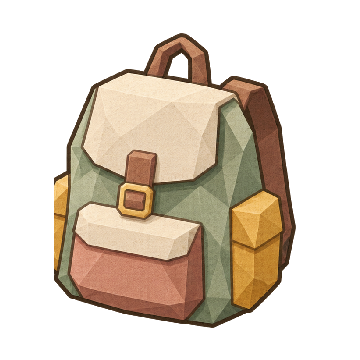
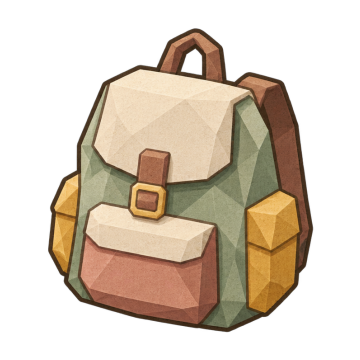
Refactor code structure for improved readability and maintainability

Changed region(s): [[0.1222, 0.0611, 0.8861, 0.9472]]

diff --git a/src/features/diary/domain/Sticker.ts b/src/features/diary/domain/Sticker.ts
@@ -56,6 +56,9 @@ export const STICKER_PACKS: StickerCategory[] = [
       { id: 'cat_sleepy', name: 'Sleepy Cat', source: STICKER_IMAGES.cat_sleepy },
       { id: 'cat_curious', name: 'Curious Cat', source: STICKER_IMAGES.cat_curious },
       { id: 'cat_cozy', name: 'Cozy Cat', source: STICKER_IMAGES.cat_cozy },
+      { id: 'cat_paw_print', name: 'Paw Print', source: STICKER_IMAGES.cat_paw_print },
+      { id: 'cat_yarn_ball', name: 'Yarn Ball', source: STICKER_IMAGES.cat_yarn_ball },
+      { id: 'cat_fish_treat', name: 'Fish Treat', source: STICKER_IMAGES.cat_fish_treat },
     ],
   },
   {
@@ -67,17 +70,23 @@ export const STICKER_PACKS: StickerCategory[] = [
       { id: 'school_notebook', name: 'Notebook', source: STICKER_IMAGES.school_notebook },
       { id: 'school_pencil', name: 'Pencil', source: STICKER_IMAGES.school_pencil },
       { id: 'school_backpack', name: 'Backpack', source: STICKER_IMAGES.school_backpack },
+      { id: 'school_eraser', name: 'Eraser', source: STICKER_IMAGES.school_eraser },
+      { id: 'school_ruler', name: 'Ruler', source: STICKER_IMAGES.school_ruler },
+      { id: 'school_crayon', name: 'Crayon', source: STICKER_IMAGES.school_crayon },
     ],
   },
   {
     id: 'summer-img',
     name: 'Summer',
     icon: 'summer',
-    accessTier: 'free',
+    accessTier: 'premium',
     stickers: [
       { id: 'summer_sun', name: 'Sun', source: STICKER_IMAGES.summer_sun },
       { id: 'summer_wave', name: 'Wave', source: STICKER_IMAGES.summer_wave },
       { id: 'summer_ice_cream', name: 'Ice Cream', source: STICKER_IMAGES.summer_ice_cream },
+      { id: 'summer_sunglasses', name: 'Sunglasses', source: STICKER_IMAGES.summer_sunglasses },
+      { id: 'summer_beach_ball', name: 'Beach Ball', source: STICKER_IMAGES.summer_beach_ball },
+      { id: 'summer_popsicle', name: 'Popsicle', source: STICKER_IMAGES.summer_popsicle },
     ],
   },
   {
@@ -103,6 +112,9 @@ export const STICKER_PACKS: StickerCategory[] = [
       { id: 'winter_snowflake', name: 'Snowflake', source: STICKER_IMAGES.winter_snowflake },
       { id: 'winter_scarf', name: 'Scarf', source: STICKER_IMAGES.winter_scarf },
       { id: 'winter_snow_globe', name: 'Snow Globe', source: STICKER_IMAGES.winter_snow_globe },
+      { id: 'winter_mitten', name: 'Mitten', source: STICKER_IMAGES.winter_mitten },
+      { id: 'winter_hot_cocoa', name: 'Hot Cocoa', source: STICKER_IMAGES.winter_hot_cocoa },
+      { id: 'winter_beanie', name: 'Beanie', source: STICKER_IMAGES.winter_beanie },
     ],
   },
   {
@@ -114,6 +126,9 @@ export const STICKER_PACKS: StickerCategory[] = [
       { id: 'spring_blossom', name: 'Blossom', source: STICKER_IMAGES.spring_blossom },
       { id: 'spring_tulip', name: 'Tulip', source: STICKER_IMAGES.spring_tulip },
       { id: 'spring_daisy', name: 'Daisy', source: STICKER_IMAGES.spring_daisy },
+      { id: 'spring_bee', name: 'Bee', source: STICKER_IMAGES.spring_bee },
+      { id: 'spring_rain_boot', name: 'Rain Boot', source: STICKER_IMAGES.spring_rain_boot },
+      { id: 'spring_butterfly', name: 'Butterfly', source: STICKER_IMAGES.spring_butterfly },
     ],
   },
   {
@@ -125,6 +140,9 @@ export const STICKER_PACKS: StickerCategory[] = [
       { id: 'fall_leaf', name: 'Leaf', source: STICKER_IMAGES.fall_leaf },
       { id: 'fall_pumpkin', name: 'Pumpkin', source: STICKER_IMAGES.fall_pumpkin },
       { id: 'fall_acorn', name: 'Acorn', source: STICKER_IMAGES.fall_acorn },
+      { id: 'fall_apple', name: 'Apple', source: STICKER_IMAGES.fall_apple },
+      { id: 'fall_mushroom', name: 'Mushroom', source: STICKER_IMAGES.fall_mushroom },
+      { id: 'fall_pie_slice', name: 'Pie Slice', source: STICKER_IMAGES.fall_pie_slice },
     ],
   },
 ];

diff --git a/src/features/diary/domain/StickerImages.ts b/src/features/diary/domain/StickerImages.ts
@@ -7,21 +7,39 @@ export const STICKER_IMAGES = {
   cat_sleepy: require('../../../../assets/stickers/cat/sleepy.png'),
   cat_curious: require('../../../../assets/stickers/cat/curious.png'),
   cat_cozy: require('../../../../assets/stickers/cat/cozy.png'),
+  cat_paw_print: require('../../../../assets/stickers/cat/paw-print.png'),
+  cat_yarn_ball: require('../../../../assets/stickers/cat/yarn-ball.png'),
+  cat_fish_treat: require('../../../../assets/stickers/cat/fish-treat.png'),
   school_notebook: require('../../../../assets/stickers/school/notebook.png'),
   school_pencil: require('../../../../assets/stickers/school/pencil.png'),
   school_backpack: require('../../../../assets/stickers/school/backpack.png'),
+  school_eraser: require('../../../../assets/stickers/school/eraser.png'),
+  school_ruler: require('../../../../assets/stickers/school/ruler.png'),
+  school_crayon: require('../../../../assets/stickers/school/crayon.png'),
   summer_sun: require('../../../../assets/stickers/summer/sun.png'),
   summer_wave: require('../../../../assets/stickers/summer/wave.png'),
   summer_ice_cream: require('../../../../assets/stickers/summer/ice-cream.png'),
+  summer_sunglasses: require('../../../../assets/stickers/summer/sunglasses.png'),
+  summer_beach_ball: require('../../../../assets/stickers/summer/beach-ball.png'),
+  summer_popsicle: require('../../../../assets/stickers/summer/popsicle.png'),
   winter_snowflake: require('../../../../assets/stickers/winter/snowflake.png'),
   winter_scarf: require('../../../../assets/stickers/winter/scarf.png'),
   winter_snow_globe: require('../../../../assets/stickers/winter/snow-globe.png'),
+  winter_mitten: require('../../../../assets/stickers/winter/mitten.png'),
+  winter_hot_cocoa: require('../../../../assets/stickers/winter/hot-cocoa.png'),
+  winter_beanie: require('../../../../assets/stickers/winter/beanie.png'),
   spring_blossom: require('../../../../assets/stickers/spring/blossom.png'),
   spring_tulip: require('../../../../assets/stickers/spring/tulip.png'),
   spring_daisy: require('../../../../assets/stickers/spring/daisy.png'),
+  spring_bee: require('../../../../assets/stickers/spring/bee.png'),
+  spring_rain_boot: require('../../../../assets/stickers/spring/rain-boot.png'),
+  spring_butterfly: require('../../../../assets/stickers/spring/butterfly.png'),
   fall_leaf: require('../../../../assets/stickers/fall/leaf.png'),
   fall_pumpkin: require('../../../../assets/stickers/fall/pumpkin.png'),
   fall_acorn: require('../../../../assets/stickers/fall/acorn.png'),
+  fall_apple: require('../../../../assets/stickers/fall/apple.png'),
+  fall_mushroom: require('../../../../assets/stickers/fall/mushroom.png'),
+  fall_pie_slice: require('../../../../assets/stickers/fall/pie-slice.png'),
   scribble_heart: require('../../../../assets/stickers/scribble/heart.png'),
   scribble_starburst: require('../../../../assets/stickers/scribble/starburst.png'),
   scribble_thought: require('../../../../assets/stickers/scribble/thought.png'),

diff --git a/src/features/diary/components/StickerCanvasItem.tsx b/src/features/diary/components/StickerCanvasItem.tsx
@@ -34,7 +34,7 @@ import { MaterialCommunityIcons } from '@expo/vector-icons';
 import { PlacedSticker, findStickerItem } from '../domain/Sticker';
 import { useTranslation } from '@/localization/i18n';
 import { useTheme } from '@/providers/ThemeProvider';
-import { resolveImportedDiaryPhotoUri } from '@/features/diary/services/DiaryPhotoService';
+import { getDiaryPhotoImageSource } from '@/features/diary/services/DiaryPhotoService';
 import {
   DIARY_PHOTO_STICKER_BASE_WIDTH,
   DIARY_STICKER_BASE_SIZE,
@@ -112,6 +112,7 @@ export const StickerCanvasItem: React.FC<StickerCanvasItemProps> = ({
   const stickerItem = sticker.imageUri || isTextSticker ? undefined : findStickerItem(sticker.stickerId);
   const stickerIcon = stickerItem?.icon ?? '⭐';
   const stickerSource = stickerItem?.source;
+  const photoStickerSource = sticker.imageUri ? getDiaryPhotoImageSource(sticker.imageUri) : undefined;
   const photoAspectRatio = sticker.imageWidth && sticker.imageHeight ? sticker.imageWidth / sticker.imageHeight : 1;
   const textColor = sticker.textColor ?? DEFAULT_TEXT_STICKER_COLOR;
   const textBackgroundColor = sticker.textBackgroundColor ?? DEFAULT_TEXT_STICKER_BACKGROUND_COLOR;
@@ -464,11 +465,13 @@ export const StickerCanvasItem: React.FC<StickerCanvasItemProps> = ({
                 </Text>
               )
             ) : sticker.imageUri ? (
-              <Image
-                source={{ uri: resolveImportedDiaryPhotoUri(sticker.imageUri) }}
-                style={[styles.photoStickerImage, { aspectRatio: photoAspectRatio }, isSelected && styles.selectedOverlay]}
-                resizeMode="cover"
-              />
+              photoStickerSource ? (
+                <Image
+                  source={photoStickerSource}
+                  style={[styles.photoStickerImage, { aspectRatio: photoAspectRatio }, isSelected && styles.selectedOverlay]}
+                  resizeMode="cover"
+                />
+              ) : null
             ) : stickerSource != null ? (
               <Image
                 source={stickerSource}

diff --git a/src/features/diary/components/__tests__/StickerCanvasItem.test.tsx b/src/features/diary/components/__tests__/StickerCanvasItem.test.tsx
@@ -3,6 +3,12 @@ import { StickerCanvasItem } from '@/features/diary/components/StickerCanvasItem
 import type { PlacedSticker } from '@/features/diary/domain/Sticker';
 import { renderWithProviders } from '@tests/helpers';
 
+const mockGetDiaryPhotoImageSource = jest.fn((uri: string) => ({ uri: `cache:${uri}` }));
+
+jest.mock('@/features/diary/services/DiaryPhotoService', () => ({
+  getDiaryPhotoImageSource: (uri: string) => mockGetDiaryPhotoImageSource(uri),
+}));
+
 const baseSticker: PlacedSticker = {
   id: '550e8400-e29b-41d4-a716-446655440000',
   stickerId: 'text-sticker',
@@ -51,5 +57,29 @@ describe('StickerCanvasItem', () => {
 
     expect(style.zIndex).toBe(5);
     expect(style.elevation).toBe(5);
+  });
+
+  it('renders photo stickers through the diary photo image source resolver', async () => {
+    const photoSticker: PlacedSticker = {
+      ...baseSticker,
+      stickerId: 'photo:asset',
+      category: 'photos',
+      text: undefined,
+      imageUri: 'file:///document/diary-photos/encrypted-photo.jpg',
+      imageWidth: 1200,
+      imageHeight: 800,
+    };
+    await renderWithProviders(
+      <StickerCanvasItem
+        sticker={photoSticker}
+        onUpdate={jest.fn()}
+        onDelete={jest.fn()}
+        isEditable
+        testID="sticker-item"
+      />,
+      { wrapperOptions: { initialThemeMode: 'dark' } },
+    );
+
+    expect(mockGetDiaryPhotoImageSource).toHaveBeenCalledWith('file:///document/diary-photos/encrypted-photo.jpg');
   });
 });

diff --git a/src/features/diary/domain/__tests__/Sticker.test.ts b/src/features/diary/domain/__tests__/Sticker.test.ts
@@ -32,6 +32,23 @@ describe('Sticker catalog', () => {
     expect(scribblePack?.stickers.every((sticker) => sticker.source != null)).toBe(true);
   });
 
+  it('treats the Summer sticker pack as premium', () => {
+    const summerPack = STICKER_PACKS.find((pack) => pack.id === 'summer-img');
+
+    expect(summerPack?.accessTier).toBe('premium');
+  });
+
+  it('includes six stickers in the themed cat, school, and seasonal packs', () => {
+    const expandedPackIds = ['cat-img', 'school-img', 'summer-img', 'winter-img', 'spring-img', 'fall-img'];
+
+    for (const packId of expandedPackIds) {
+      const pack = STICKER_PACKS.find((candidate) => candidate.id === packId);
+
+      expect(pack?.stickers).toHaveLength(6);
+      expect(pack?.stickers.every((sticker) => sticker.source != null)).toBe(true);
+    }
+  });
+
   it('supports text stickers in placed sticker data', () => {
     const result = PlacedStickerSchema.parse({
       id: '123e4567-e89b-12d3-a456-426614174000',

diff --git a/assets/ASSET_REGISTER.md b/assets/ASSET_REGISTER.md
@@ -67,13 +67,13 @@ Review status: draft; human IP/design review required before release.
 | Diary paper backgrounds | `assets/diary-paper/*.png` | Nine subtle AI-generated body canvas paper textures, plus the in-app blank option. Regenerated 2026-09-09 with the built-in image tool using soft low-poly journal direction at level 6, then resized to `1024x1024`: vintage parchment, soft lined paper, pressed petal paper, taped note paper, rose memo paper, blue notebook paper, recycled kraft paper, pastel memo paper, and cream letter paper. `recycled-kraft-paper.png`, `pastel-memo-paper.png`, and `cream-letter-paper.png` were added 2026-09-10 with generic plain paper prompts: no third-party image inputs, text, logos, people, characters, brand marks, named artist/studio/franchise references, objects, or distinctive visual references. Intended display size: full diary body canvas behind readable entry text. Draft; human IP/design review required before release. |
 | Pattern backgrounds | `assets/patterns/pattern-spring.png`, `assets/patterns/pattern-summer.png`, `assets/patterns/pattern-autumn.png`, `assets/patterns/pattern-winter.png`, `assets/patterns/pattern-rain.png`, `assets/patterns/motifs/*.png` | Five transparent wallpaper tiles regenerated 2026-09-09 from AI-generated source motifs, then composed with `scripts/generate-owned-assets.js patterns` using controlled sparse spacing. Uses soft low-poly journal direction at level 6. Seasonal tiles use one repeated motif type only: blossom, sun, leaf, or snowflake. Rain intentionally uses two motif types: cloud and raindrop. Motif scale was reduced to 75% of the previous generated pattern size. Each theme has a distinct sparse position map. No third-party image inputs, text, logos, people, characters, brand marks, or named artist/studio/franchise references. Generated dimensions: source motifs are `512x512`; final tiles are `768x768`. Intended display size: subtle full-screen decorative app background. Draft; human IP/design review required before release. See `assets/patterns/README.md`. |
 | Memory reaction icons | `assets/reactions/*.png` | Seven transparent PNG reaction icons: cherish, treasure, smile, heavy, tender, stormy, wonder. Regenerated 2026-09-09 with the built-in image tool using simplified single-item prompts and soft low-poly journal art direction at level 6: heart, gem, smile circle, raincloud, cupped hand, lightning bolt, and four-point star. No third-party image inputs, named artist/studio/franchise references, text, logos, people, animals, platform emoji likeness, or branded marks. Generated dimensions: `256x256`. Intended display size: 24-42 px in reaction buttons and trays. Draft; human IP/design review required before release. |
-| Sticker pack: Cat | `assets/stickers/cat/*.png` | Three transparent PNG stickers: sleepy, curious, cozy. Regenerated 2026-09-09 with the built-in image tool using soft low-poly journal direction at level 6. Source sheet retained under `assets/stickers/source-sheets/cat.png`. |
-| Sticker pack: School | `assets/stickers/school/*.png` | Three transparent PNG stickers: notebook, pencil, backpack. Regenerated 2026-09-09 with the built-in image tool using soft low-poly journal direction at level 6. Source sheet retained under `assets/stickers/source-sheets/school.png`. |
-| Sticker pack: Summer | `assets/stickers/summer/*.png` | Three transparent PNG stickers: sun, wave, ice cream. Regenerated 2026-09-09 with the built-in image tool using soft low-poly journal direction at level 6. Source sheet retained under `assets/stickers/source-sheets/summer.png`. |
+| Sticker pack: Cat | `assets/stickers/cat/*.png` | Six transparent PNG stickers: sleepy, curious, cozy, paw print, yarn ball, fish treat. Base set regenerated 2026-09-09 with the built-in image tool using soft low-poly journal direction at level 6. Three common-item additions generated 2026-09-13 with the built-in image tool using the same direction. Source sheets retained under `assets/stickers/source-sheets/cat.png` and `assets/stickers/source-sheets/cat-extra.png`. |
+| Sticker pack: School | `assets/stickers/school/*.png` | Six transparent PNG stickers: notebook, pencil, backpack, eraser, ruler, crayon. Base set regenerated 2026-09-09 with the built-in image tool using soft low-poly journal direction at level 6. Three common-item additions generated 2026-09-13 with the built-in image tool using the same direction. Source sheets retained under `assets/stickers/source-sheets/school.png` and `assets/stickers/source-sheets/school-extra.png`. |
+| Premium sticker pack: Summer | `assets/stickers/summer/*.png` | Six transparent PNG stickers: sun, wave, ice cream, sunglasses, beach ball, popsicle. Base set regenerated 2026-09-09 with the built-in image tool using soft low-poly journal direction at level 6. Three common-item additions generated 2026-09-13 with the built-in image tool using the same direction. Source sheets retained under `assets/stickers/source-sheets/summer.png` and `assets/stickers/source-sheets/summer-extra.png`. |
 | Sticker pack: Scribble Art | `assets/stickers/scribble/*.png` | Six transparent PNG diary doodle stickers: heart, starburst, thought bubble, swoosh, flower, tape note. Regenerated 2026-09-09 with the built-in image tool using soft low-poly journal direction at level 6. Source sheet and individual corrective source assets retained under `assets/stickers/source-sheets/`. |
-| Premium sticker pack: Winter | `assets/stickers/winter/*.png` | Three transparent PNG stickers: snowflake, scarf, snow globe. Regenerated 2026-09-09 with the built-in image tool using soft low-poly journal direction at level 6. Source sheet retained under `assets/stickers/source-sheets/winter.png`. |
-| Premium sticker pack: Spring | `assets/stickers/spring/*.png` | Three transparent PNG stickers: blossom, tulip, daisy. Regenerated 2026-09-09 with the built-in image tool using soft low-poly journal direction at level 6. Source sheet retained under `assets/stickers/source-sheets/spring.png`. |
-| Premium sticker pack: Fall | `assets/stickers/fall/*.png` | Three transparent PNG stickers: leaf, pumpkin, acorn. Regenerated 2026-09-09 with the built-in image tool using soft low-poly journal direction at level 6. Source sheet and individual corrective source assets retained under `assets/stickers/source-sheets/`. |
+| Premium sticker pack: Winter | `assets/stickers/winter/*.png` | Six transparent PNG stickers: snowflake, scarf, snow globe, mitten, hot cocoa, beanie. Base set regenerated 2026-09-09 with the built-in image tool using soft low-poly journal direction at level 6. Three common-item additions generated 2026-09-13 with the built-in image tool using the same direction. Source sheets retained under `assets/stickers/source-sheets/winter.png` and `assets/stickers/source-sheets/winter-extra.png`. |
+| Premium sticker pack: Spring | `assets/stickers/spring/*.png` | Six transparent PNG stickers: blossom, tulip, daisy, bee, rain boot, butterfly. Base set regenerated 2026-09-09 with the built-in image tool using soft low-poly journal direction at level 6. Three common-item additions generated 2026-09-13 with the built-in image tool using the same direction. Source sheets retained under `assets/stickers/source-sheets/spring.png` and `assets/stickers/source-sheets/spring-extra.png`. |
+| Premium sticker pack: Fall | `assets/stickers/fall/*.png` | Six transparent PNG stickers: leaf, pumpkin, acorn, apple, mushroom, pie slice. Base set regenerated 2026-09-09 with the built-in image tool using soft low-poly journal direction at level 6. Three common-item additions generated 2026-09-13 with the built-in image tool using the same direction. Source sheets retained under `assets/stickers/source-sheets/fall.png`, `assets/stickers/source-sheets/fall-extra.png`, and individual corrective source assets under `assets/stickers/source-sheets/individual/`. |
 
 ## Dependency Assets
 
